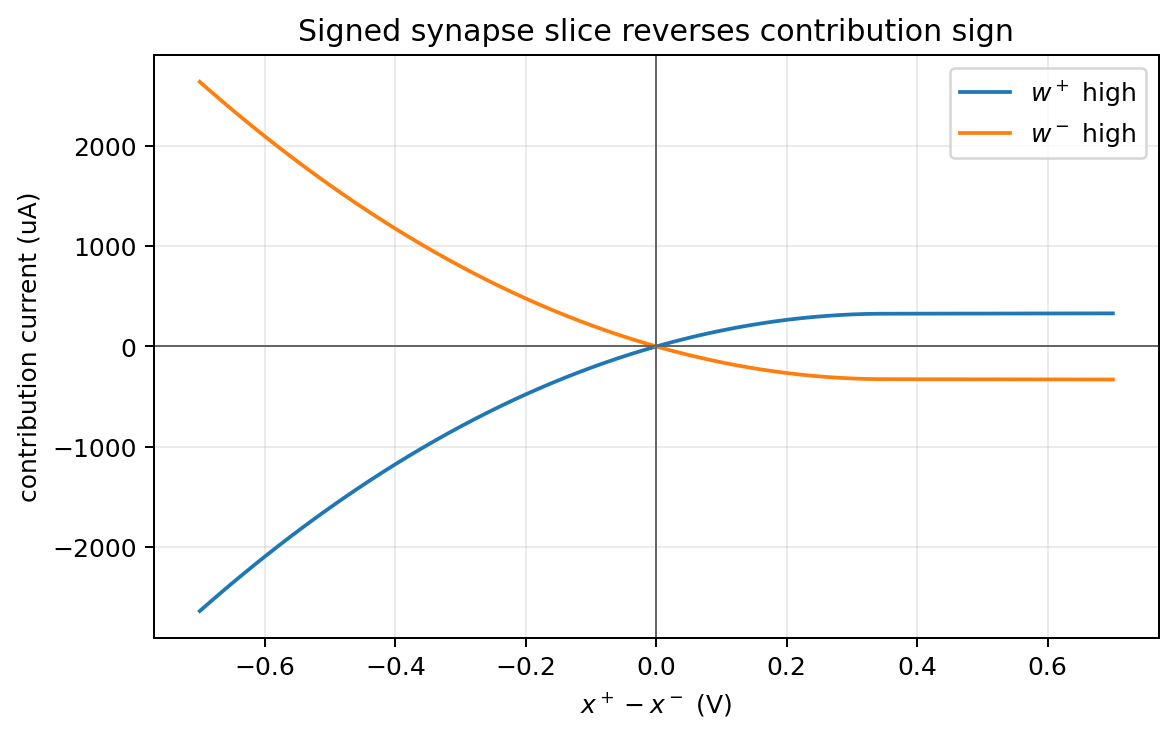
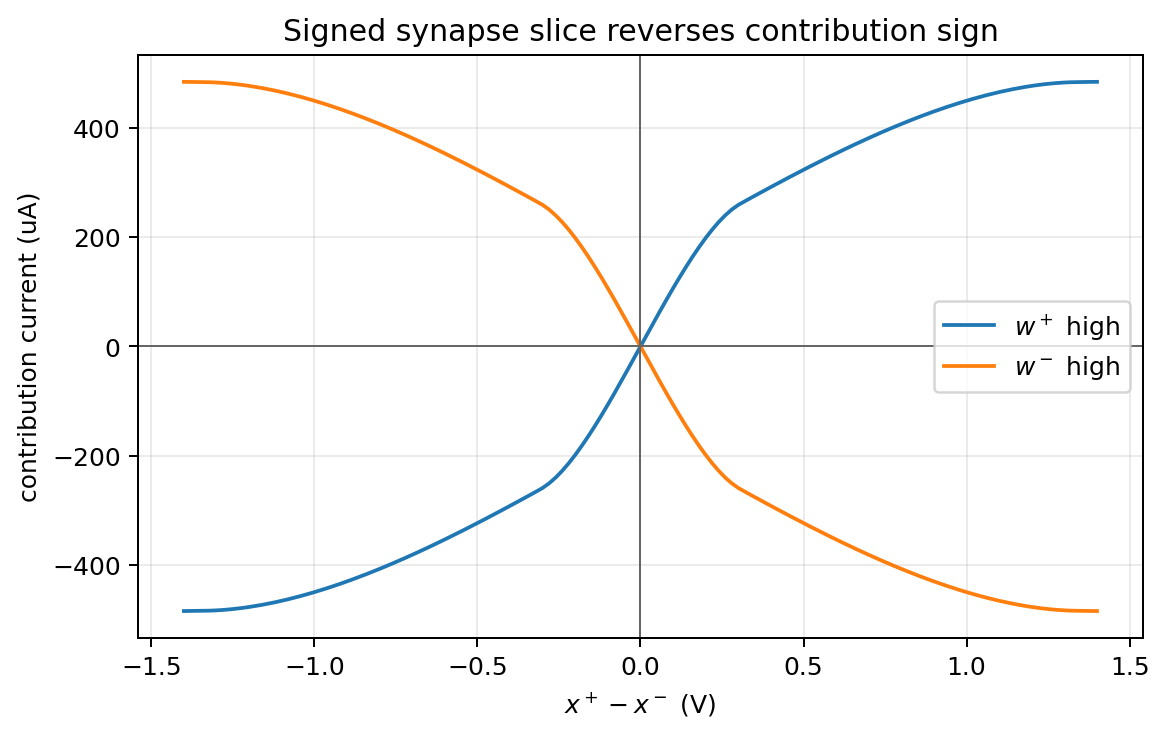
Improve MOS synapse transconductance characterization

diff --git a/docs/spicenn_progress_note.tex b/docs/spicenn_progress_note.tex
@@ -344,35 +344,46 @@ direction.
       gate/.style={semithick, gray!80},
       group/.style={draw, dashed, rounded corners=2pt, inner sep=9pt}
     ]
-    \node[font=\bfseries\Large] at (4.8,3.6) {A. one signed synapse slice};
+    \node[font=\bfseries\Large] at (4.8,3.6) {A. one signed synapse transconductance slice};
     \draw[rail] (-0.2,2.8) node[lab,left] {$z^+$} -- (9.8,2.8);
-    \draw[rail] (-0.2,1.35) node[lab,left] {$z^-$} -- (9.8,1.35);
-    \draw[semithick] (-0.2,0.15) node[lab,left] {$x^+$} -- (9.8,0.15);
-    \draw[semithick] (-0.2,-1.05) node[lab,left] {$x^-$} -- (9.8,-1.05);
+    \draw[rail] (-0.2,1.45) node[lab,left] {$z^-$} -- (9.8,1.45);
+    \draw[semithick] (-0.2,0.10) node[lab,left] {$x^+$} -- (9.8,0.10);
+    \draw[semithick] (-0.2,-0.95) node[lab,left] {$x^-$} -- (9.8,-0.95);
 
-    \drawnmos{1.2}{1.55}{$M_1$}{$w^+$}{synm1}
-    \drawnmos{3.3}{1.55}{$M_2$}{$w^-$}{synm2}
-    \drawnmos{6.0}{0.05}{$M_3$}{$w^-$}{synm3}
-    \drawnmos{8.1}{0.05}{$M_4$}{$w^+$}{synm4}
+    \drawnmos{1.7}{0.10}{$M_{p+}$}{$x^+$}{synpp}
+    \drawnmos{3.4}{-0.95}{$M_{p-}$}{$x^-$}{synpm}
+    \draw[semithick] (synppD) |- (1.7,2.8);
+    \draw[semithick] (synpmD) |- (3.4,1.45);
+    \draw[semithick] (synppS) -- (2.55,-1.75) -- (synpmS);
+    \drawnmos{2.55}{-2.75}{$N_{tail+}$}{$w^+$}{syntp}
+    \draw[semithick] (2.55,-1.75) -- (syntpD);
+    \draw[semithick] (syntpS) -- (2.55,-3.50);
+    \mosgnd{2.55}{-3.50}
 
-    \draw[semithick] (synm1D) |- (1.2,2.8);  \draw[semithick] (synm1S) |- (1.2,0.15);
-    \draw[semithick] (synm2D) |- (3.3,2.8);  \draw[semithick] (synm2S) |- (3.3,-1.05);
-    \draw[semithick] (synm3D) |- (6.0,1.35); \draw[semithick] (synm3S) |- (6.0,0.15);
-    \draw[semithick] (synm4D) |- (8.1,1.35); \draw[semithick] (synm4S) |- (8.1,-1.05);
+    \drawnmos{6.0}{-0.95}{$M_{n+}$}{$x^-$}{synnp}
+    \drawnmos{7.7}{0.10}{$M_{n-}$}{$x^+$}{synnm}
+    \draw[semithick] (synnpD) |- (6.0,2.8);
+    \draw[semithick] (synnmD) |- (7.7,1.45);
+    \draw[semithick] (synnpS) -- (6.85,-1.75) -- (synnmS);
+    \drawnmos{6.85}{-2.75}{$N_{tail-}$}{$w^-$}{syntn}
+    \draw[semithick] (6.85,-1.75) -- (syntnD);
+    \draw[semithick] (syntnS) -- (6.85,-3.50);
+    \mosgnd{6.85}{-3.50}
 
-    \moscap{1.2}{-2.25}{$C_{W^+}$}{syncwp}
-    \moscap{3.3}{-2.25}{$C_{W^-}$}{syncwm}
-    \draw[gate] (syncwp) -| (synm1G);
-    \draw[gate] (syncwp) -| (synm4G);
-    \draw[gate] (syncwm) -| (synm2G);
-    \draw[gate] (syncwm) -| (synm3G);
-    \node[lab, align=center] at (2.45,-3.45)
-      {same-sign branches drive \(z^+\); opposite-sign branches drive \(z^-\)};
-    \node[group, fit=(synm1D) (synm4S) (syncwp) (syncwm)] {};
+    \moscap{1.25}{-4.00}{$C_{W^+}$}{syncwp}
+    \moscap{7.95}{-4.00}{$C_{W^-}$}{syncwm}
+    \draw[gate] (syncwp) -| (syntpG);
+    \draw[gate] (syncwm) -| (syntnG);
+    \node[lab, align=center] at (2.55,-5.00)
+      {\(w^+\): \(x^+\!\to z^+\), \(x^-\!\to z^-\)};
+    \node[lab, align=center] at (6.85,-5.00)
+      {\(w^-\): \(x^-\!\to z^+\), \(x^+\!\to z^-\)};
+    \node[group, fit=(synppD) (synnmD) (syncwp) (syncwm)] {};
   \end{tikzpicture}}
   \caption{Zoomed transistor-level signed synapse slice.  A full local-feature
-  cell repeats this MOS pass/transconductance slice for each pixel in the
-  receptive field.}
+  cell repeats this source-coupled MOS transconductance slice for each pixel in
+  the receptive field.  The \(w^-\) copy swaps the input gates, so its
+  contribution is the sign reverse of the \(w^+\) copy.}
   \label{fig:mos-synapse-slice}
 \end{figure}
 

diff --git a/spice/run_mos_cell_characterization.py b/spice/run_mos_cell_characterization.py
@@ -72,51 +72,51 @@ def save_plot(fig: plt.Figure, stem: str) -> Path:
 
 def characterize_synapse() -> Path:
     deck = f"""
-* Signed MOS synapse slice sanity check
+* Signed MOS synapse transconductance sanity check
 {COMMON_MODELS}
-VXP xp 0 0.2
-VXM xm 0 0.9
+VCM cm 0 0.9
+VDIFF xp xm -1.4
+RXP xp cm 1G
+RXM xm cm 1G
 
-* Positive-weight copy: w+ high, w- low.
-VWPP wpp 0 1.8
-VWMP wmp 0 0.0
-VZPP zpp 0 0.9
-VZMP zmp 0 0.9
-Mpp1 zpp wpp xp 0 NMOS L={{LCH}} W={{WN}}
-Mpp2 zmp wpp xm 0 NMOS L={{LCH}} W={{WN}}
-Mpm1 zmp wmp xp 0 NMOS L={{LCH}} W={{WN}}
-Mpm2 zpp wmp xm 0 NMOS L={{LCH}} W={{WN}}
+* Positive-weight copy: xp steers current to z+, xm to z-.
+VWPP wpp 0 1.15
+VZPP zpp 0 1.8
+VZMP zmp 0 1.8
+Mpp zpp xp tailp 0 NMOS L={{LCH}} W={{WN}}
+Mpm zmp xm tailp 0 NMOS L={{LCH}} W={{WN}}
+Mtp tailp wpp 0 0 NMOS L={{LCH}} W=12u
 
-* Negative-weight copy: w+ low, w- high.
-VWPN wpn 0 0.0
-VWMN wmn 0 1.8
-VZPN zpn 0 0.9
-VZMN zmn 0 0.9
-Mnp1 zpn wpn xp 0 NMOS L={{LCH}} W={{WN}}
-Mnp2 zmn wpn xm 0 NMOS L={{LCH}} W={{WN}}
-Mnm1 zmn wmn xp 0 NMOS L={{LCH}} W={{WN}}
-Mnm2 zpn wmn xm 0 NMOS L={{LCH}} W={{WN}}
+* Negative-weight copy swaps the input gates, reversing the contribution sign.
+VWMN wmn 0 1.15
+VZPN zpn 0 1.8
+VZMN zmn 0 1.8
+Mnp zpn xm tailn 0 NMOS L={{LCH}} W={{WN}}
+Mnm zmn xp tailn 0 NMOS L={{LCH}} W={{WN}}
+Mtn tailn wmn 0 0 NMOS L={{LCH}} W=12u
 
 .control
 set noaskquit
-dc VXP 0.2 1.6 0.01
-wrdata mos_synapse_slice.dat i(VZPP) i(VZMP) i(VZPN) i(VZMN)
+dc VDIFF -1.4 1.4 0.02
+wrdata mos_synapse_slice.dat i(VZPP) i(VZMP) i(VZPN) i(VZMN) v(xp) v(xm)
 quit
 .endc
 .end
 """
     data = run_ngspice(deck, "mos_synapse_slice")
-    x, cols = load_wrdata(data, 4)
+    xdiff, cols = load_wrdata(data, 6)
     # ngspice reports current through a voltage source using the source's
     # orientation.  Flip into the contribution convention used in the paper:
     # positive current means a positive signed contribution to z.
-    pos_signed = cols[0] - cols[1]
-    neg_signed = cols[2] - cols[3]
-    xdiff = x - 0.9
+    pos_signed = cols[1] - cols[0]
+    neg_signed = cols[3] - cols[2]
     require(np.mean(pos_signed[xdiff > 0.2]) > 0, "w+ branch should be positive for x+ > x-")
     require(np.mean(pos_signed[xdiff < -0.2]) < 0, "w+ branch should be negative for x+ < x-")
     require(np.mean(neg_signed[xdiff > 0.2]) < 0, "w- branch should be negative for x+ > x-")
     require(np.mean(neg_signed[xdiff < -0.2]) > 0, "w- branch should be positive for x+ < x-")
+    peak = max(float(np.max(np.abs(pos_signed))), 1e-30)
+    require(np.max(np.abs(pos_signed + neg_signed)) < 1e-6 * peak, "negative-weight copy should reverse sign")
+    require(np.max(np.abs(pos_signed + pos_signed[::-1])) < 2e-3 * peak, "synapse transfer should be odd-symmetric")
     fig, ax = plt.subplots(figsize=(7.2, 4.2))
     ax.plot(xdiff, 1e6 * pos_signed, label="$w^+$ high")
     ax.plot(xdiff, 1e6 * neg_signed, label="$w^-$ high")

diff --git a/engineering_log.md b/engineering_log.md
@@ -2,6 +2,7 @@
 
 ## 2026-05-24
 
+- Replaced the MOS synapse characterization with a source-coupled differential transconductance slice instead of the earlier pass-device clamp. The testbench now sweeps \(x^+-x^-\) with fixed common-mode using a floating differential source and equal common-mode resistors, and it asserts both odd symmetry and exact sign reversal between the \(w^+\) and \(w^-\) copies. Updated the paper schematic to match the measured circuit: \(w^+\) and \(w^-\) tail devices select differential pairs, with the negative-weight pair swapping the input gates.
 - Tightened the MOS basic-component characterizations so the plots now fail loudly when the measured behavior is wrong. The ngspice plot script asserts signed synapse polarity, monotone centered forward transfer, derivative-gated hidden-error polarity, and four-quadrant writer selectivity. Reworked the hidden-error plot from a saturated rail-selection check into a paired MOS-replica finite-difference measurement of the actual forward-pair small-signal gain; this exposes a hard-tanh-like derivative window instead of pretending the Level-1 MOS pair is an ideal tanh derivative.
 - Added ngspice-generated single-cell characterization plots for the MOS replacement target. The new `spice/run_mos_cell_characterization.py` script emits four Level-1 MOS decks, runs ngspice, and writes paper figures for the signed synapse slice, forward differential pair, hidden-error replica pair, and four-quadrant writer. The plots validate local sign reversal, monotone bounded activation transfer, signed hidden-error rail selection, and update-branch selectivity; they remain single-cell sanity checks rather than process-calibrated or MNIST-scale transistor validation.
 - Added the first repository-level `TrainableDynamicalCell` foundation under `spicenn/cell`. The new contracts split coarse `ProtocolFamily` from rich `LearningProtocol` objects, declare typed rail bundles, state roles/access policies, cell capabilities/roles, characterization promotion levels, and tagged emitted elements. Added an experiment-mode linter that allows public ports, cell-owned core/write elements, initial conditions, and passive probes, while rejecting debug/characterization-only elements or external active sources on internal state nodes. This is the scaffolding needed to swap behavioral tanh, transistor tanh, DFA, EqProp, crossbar, reservoir, and spiking eligibility cells without letting characterization helpers leak into headline experiments.
